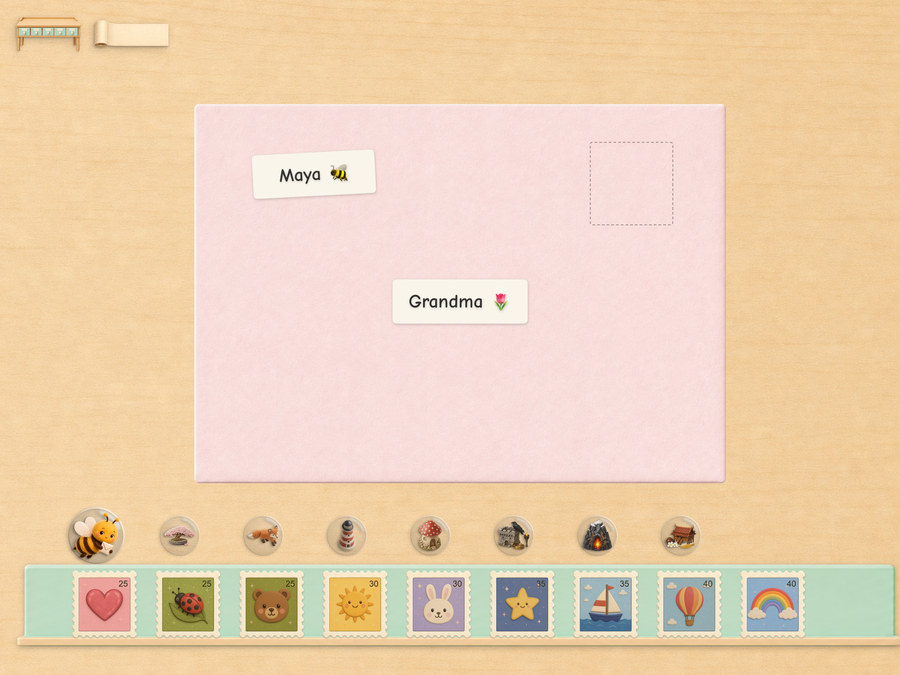
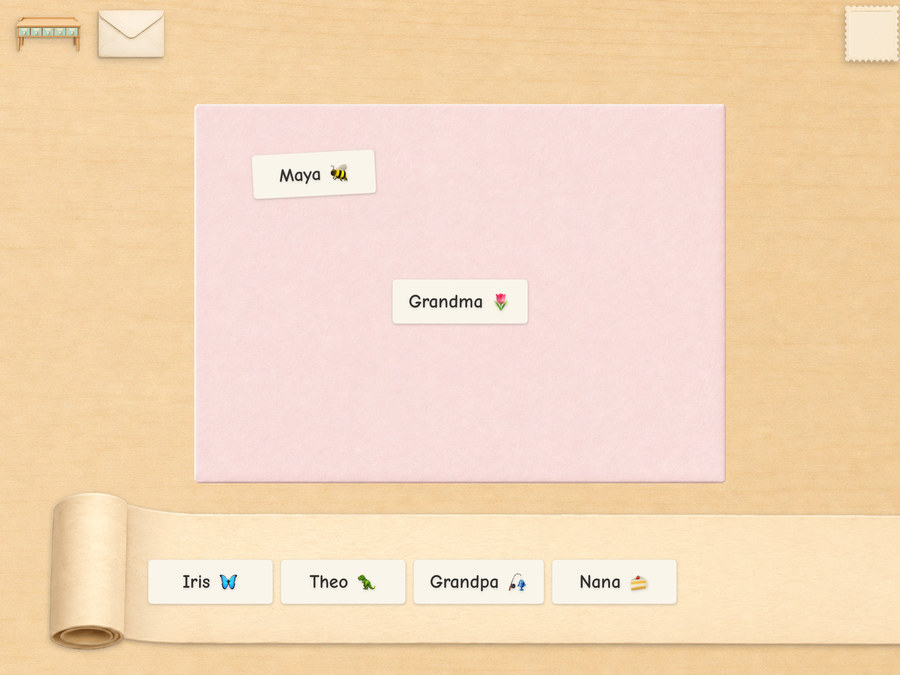
The address tape was the better first panel after all
Back to the addressing frame (Patrick, on seeing both): Grandma's
sticker on the envelope with the roll below missing her tells the
section's first beat - the sticker coming off the roll - better than the
stamp tray, which the step row above already shows.

Changed region(s): [[0.0, 0.7156, 1.0, 0.9644], [0.9333, 0.0, 1.0, 0.0933], [0.0933, 0.0, 0.1867, 0.0933]]

diff --git a/index.html b/index.html
@@ -511,7 +511,7 @@
       </div>
       <div class="steps">
         <figure>
-          <img src="assets/beyond-write.jpg" alt="A blush envelope on Maya's desk wearing her From sticker and Grandma's address sticker, with the stamp tray open below" width="900" height="675" loading="lazy" />
+          <img src="assets/beyond-write.jpg" alt="A blush envelope on Maya's desk wearing her From sticker and Grandma's address sticker - the label roll below now missing Grandma" width="900" height="675" loading="lazy" />
           <figcaption>Maya writes to Grandma.</figcaption>
           <p class="sub">Paper, ink, a stamp. Grandma&rsquo;s sticker comes
              off the roll, same as everyone else&rsquo;s.</p>
